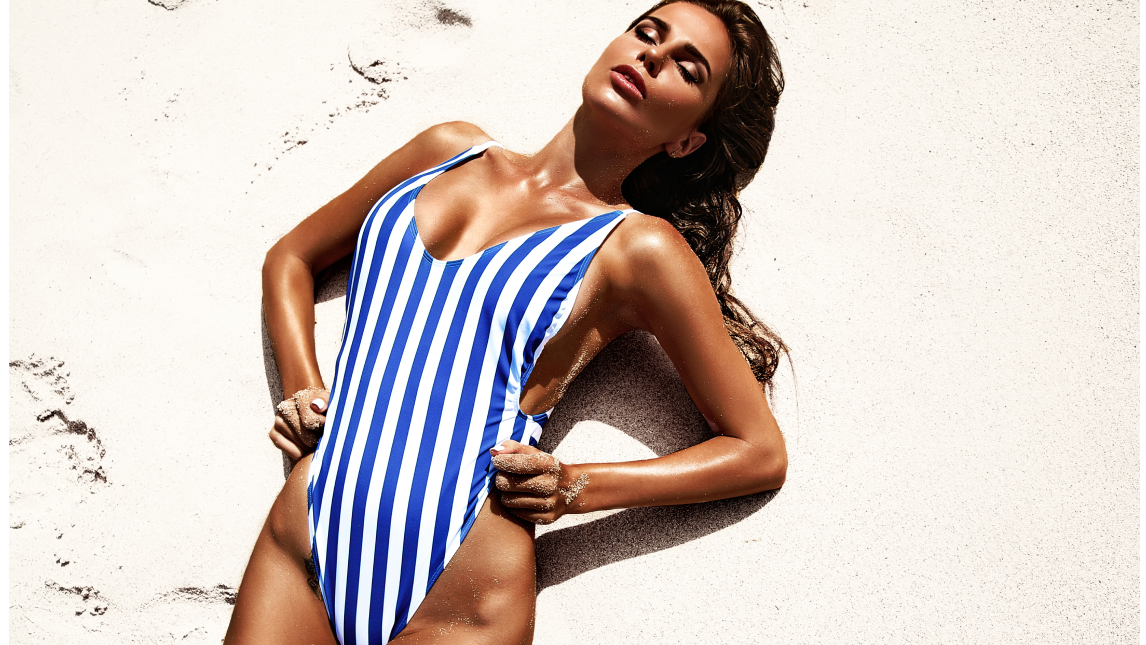
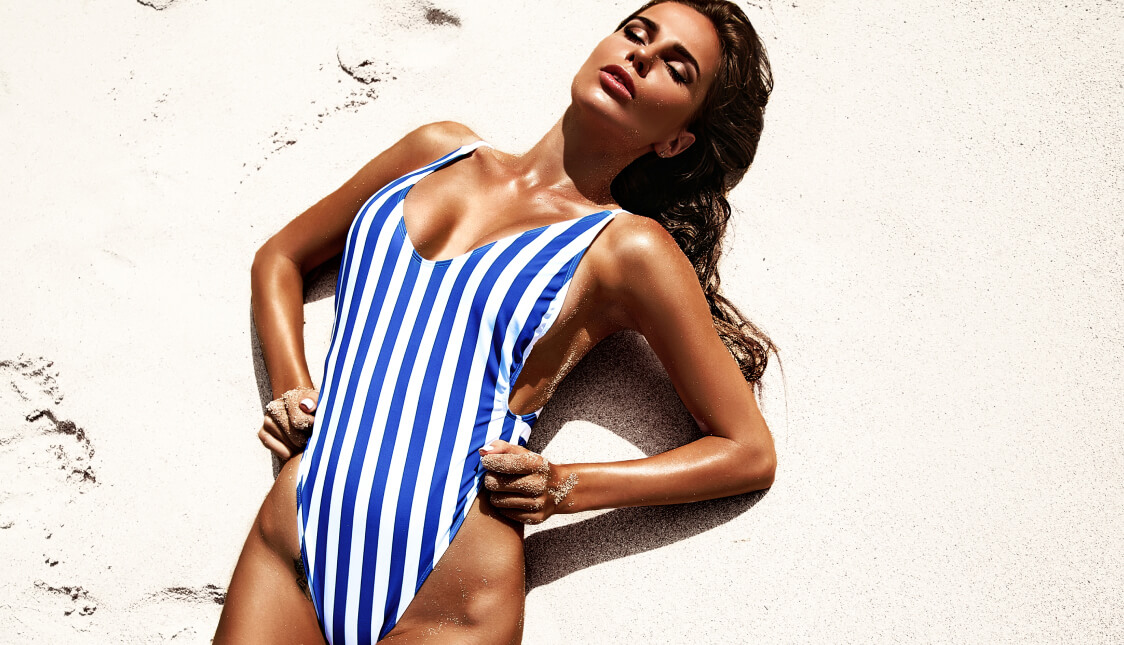
Fixes

diff --git a/style.css b/style.css
@@ -40,7 +40,7 @@ strong {
   opacity: 1;
   visibility: visible;
   transform: translateY(0);
-  transition: all 500ms 300ms ease-in;
+  transition: all 1000ms 500ms ease-in;
 }
 
 .hero-image img {
@@ -399,7 +399,9 @@ main {
 }
 
 .fourth-section img {
+  object-fit: cover;
   width: 100%;
+  max-height: 100%;
 }
 
 .top-two-images {
